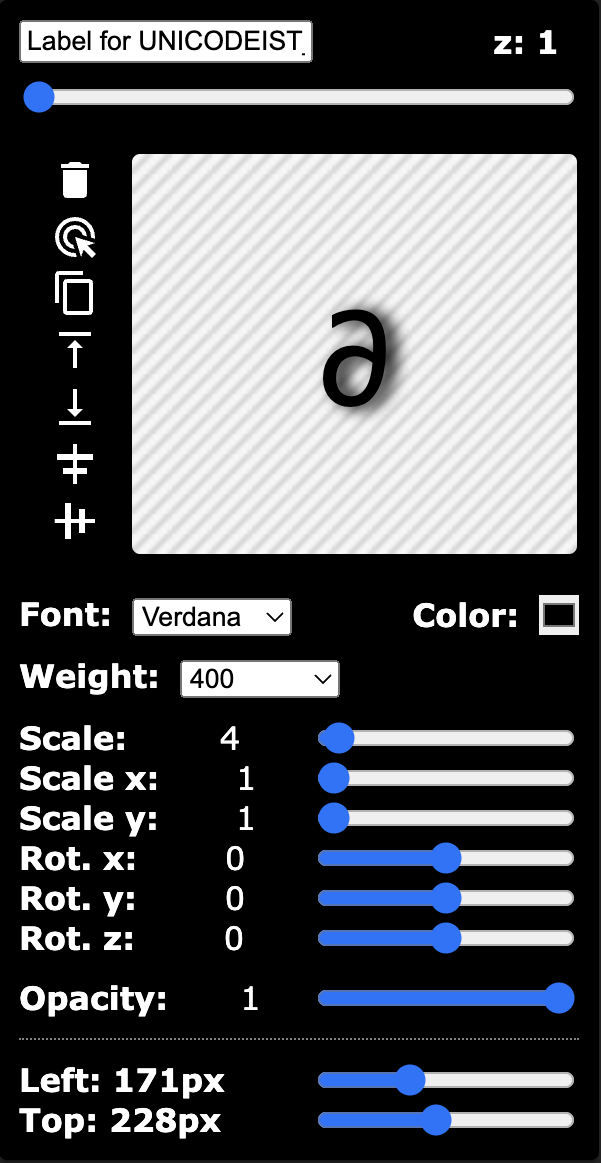
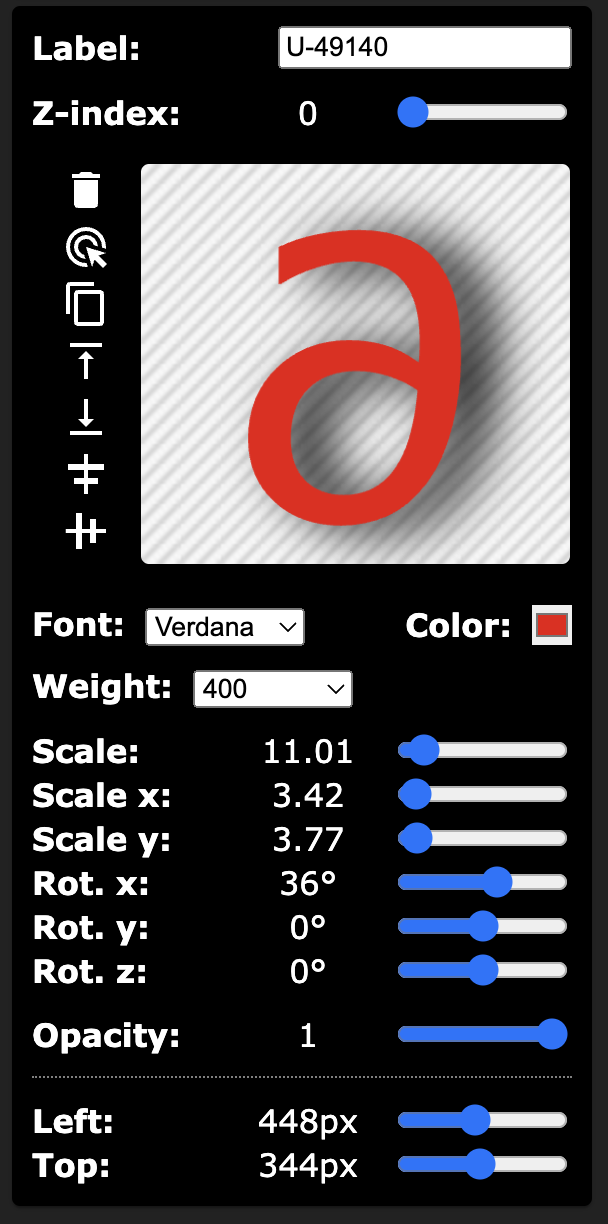
better readme

diff --git a/src/cmp/Layout/cmp/Panel/cmp/Symbols/Sym/cmp/Zindex/index.jsx b/src/cmp/Layout/cmp/Panel/cmp/Symbols/Sym/cmp/Zindex/index.jsx
@@ -1,32 +1,26 @@
-
 import { useContext} from 'react';
-import Box from '@mui/material/Box';
 import ctx from './../../../../../../../../../Context';
 import {MIN_ZINDEX, MAX_ZINDEX} from './../../../../../../../../../constants';
+import Uslider from './../../../../../../../../Uslider';
 import ACTIONS from './../../../../../../../../../reducer/actions';
-import useStyles from './../../styles';
-import useElementStyles from './styles';
+import useStyles from './styles';
 
 const Zindex = ({sym}) => {
+    
     const classes = useStyles(),
-        localClasses = useElementStyles(),
         { dispatch} = useContext(ctx);
-    return <div className={localClasses.SectionZindex}>
-        <div>
-            <Box className={classes.Box}>
-                <input className={localClasses.SectionZindexInput}
-                    type="range"
-                    min={MIN_ZINDEX} max={MAX_ZINDEX}
-                    value={sym.zIndex}
-                    onChange={e => 
-                        dispatch({
-                            type: ACTIONS.UPDATE_SYMBOL,
-                            payload: {id: sym.id, field:'zIndex', value: parseInt(e.target.value, 10)}
-                        })
-                    }
-                />
-            </Box>
-        </div>
+        
+    return <div className={classes.SectionZindex}>
+        <Uslider
+                label={'Z-index'} value={sym.zIndex}
+                min={MIN_ZINDEX} max={MAX_ZINDEX} step={1}
+                quickTune={true}
+                onChange={e => 
+                    dispatch({
+                        type: ACTIONS.UPDATE_SYMBOL,
+                        payload: {id: sym.id, field: 'zIndex', value: Math.max(0, parseInt(e.target.value, 10))}
+                    })}
+            />
     </div>;
 };
 

diff --git a/src/cmp/Layout/cmp/Panel/cmp/Symbols/Sym/cmp/Label/index.jsx b/src/cmp/Layout/cmp/Panel/cmp/Symbols/Sym/cmp/Label/index.jsx
@@ -21,8 +21,7 @@ const Label = ({sym}) => {
     return <div className={localCasses.SectionLabel}>
         <div>
             <Box className={classes.Box}>
-                <input type="text" onInput={updateLabel} size="small" label="Symbol label"  value={sym.label} />
-                <span  className={classes.Label}>z: {sym.zIndex}</span>
+                <strong>Label: </strong><input type="text" onInput={updateLabel} size="small" label="Symbol label"  value={sym.label} />
             </Box>
         </div>
     </div>;

diff --git a/src/cmp/Layout/cmp/Main/cmp/CanvasSymbol/styles.js b/src/cmp/Layout/cmp/Main/cmp/CanvasSymbol/styles.js
@@ -5,6 +5,8 @@ export default createUseStyles({
     CanvasSymbol: ({isTarget, faded, ownOpacity}) => ({
         userSelect: 'none',
         display:'block',
+        minWidth: '5px',
+        minHeight: '5px',
         cursor: isTarget ? 'move' : 'default',
         pointerEvents: isTarget && !faded ? 'auto' : 'none',
         opacity : faded ? FADED_OPACITY : ownOpacity,

diff --git a/src/constants.js b/src/constants.js
@@ -30,7 +30,7 @@ export const MAX_ROT= 180;
 export const STEP_ROT = 1;
 export const MIN_ZINDEX = 0;
 export const MAX_ZINDEX = 10000;
-export const EXPANDED_SYM_HEIGHT = 560;
+export const EXPANDED_SYM_HEIGHT = 580;
 export const COLLAPSED_SYM_HEIGHT = 50;
 export const CLOSE_TOAST_TIMEOUT = 1000;
 export const FONT_FAMILIES = [

diff --git a/src/cmp/Layout/cmp/Panel/cmp/Symbols/Sym/cmp/Label/styles.js b/src/cmp/Layout/cmp/Panel/cmp/Symbols/Sym/cmp/Label/styles.js
@@ -3,6 +3,7 @@ import { createUseStyles } from 'react-jss';
 
 export default createUseStyles({
     SectionLabel: {
-        height: '30px'
+        height: '30px',
+        marginBottom: '5px'
     }
 });

diff --git a/README.md b/README.md
@@ -21,16 +21,19 @@ Clicking <a href="./src/img/fg.json?raw=true" download>here</a> you could downlo
 ---
 - In the top right you can:<img align="right" width="322"  src="src/img/ss1.png?raw=true">
     - set the size of the current _creative_
-    - switch 🌓 theme
-    - export a `.json` file of the current _creative_
-    - import one of the exported `.json` files
-    - change the `background-color` (default is white)
-    - email the html of the _creative_ to someone
-    - get the content as `<div>` usable in a html page or a `<script>` that will automatically render the _creative_ exactly where you put the script.
-    - export a named file choosing between `.png`, `.jpeg` and `.json` (the only then importable).
+    - hover the speed dial button to:
+        - change the `background-color` (default is white)
+        - switch 🌓 theme
+         - get the content as `<div>` usable in a html page or a `<script>` that will automatically render the _creative_ exactly where you put the script.
+        - export either:
+            1) `.json` file of the current _creative_ (afterward importable)
+            2) `.png` or `.jpeg` of the current _creative_
+        - import one of the exported `.json` files
+        
+        - export a named file choosing between `.png`, `.jpeg` and `.json` (the only then importable).
     ---
 
-- Press the ➕ button on the top left (or press `ESC` button) to toggle the symbol selection panel  
+- Press the ➕ button on the **top** **left** (or press `ESC` button) to toggle the symbol selection panel  
 
 - Add one or more symbols and close the panel (through ➖ button or pressing `ESC`)  
 
@@ -42,7 +45,7 @@ Clicking <a href="./src/img/fg.json?raw=true" download>here</a> you could downlo
     - see a preview showing on its left some icons to:
         - throw it away 
         - isolate that from others (useful to be sure to change the right symbol)
-        - clone it  (when clicked, the clone will be automatically the target)
+        - clone it  (when clicked, the clone will be found on the symbol list bottom)
         - bring it to the top (z-index)
         - move it to the bottom (z-index)
         - center horizontally *
@@ -56,6 +59,8 @@ Clicking <a href="./src/img/fg.json?raw=true" download>here</a> you could downlo
         - using the range inputs
         - drag the symbol
         - when focused press <span style="padding:0px 2px;font-size:1.5em;position:relative;top:2px;border:1px solid gray">⇧ + arrow</span> (1px move each)
+
+all range fields can be tuned either mving the range handle either just clicking on the value and scroll up/down left/right or just type the exact value and blur (or hit `esc` | `enter` buttons).
 
 
 
